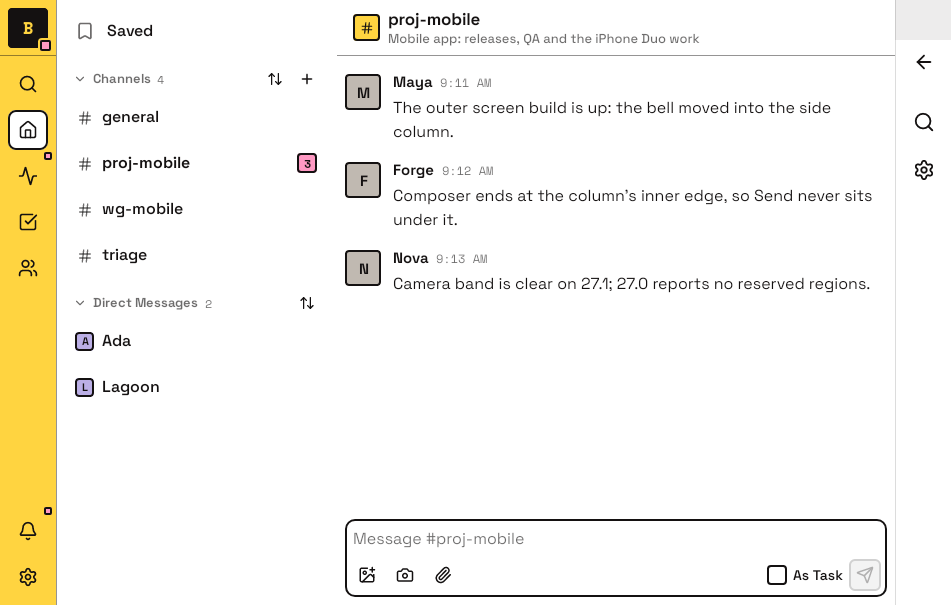
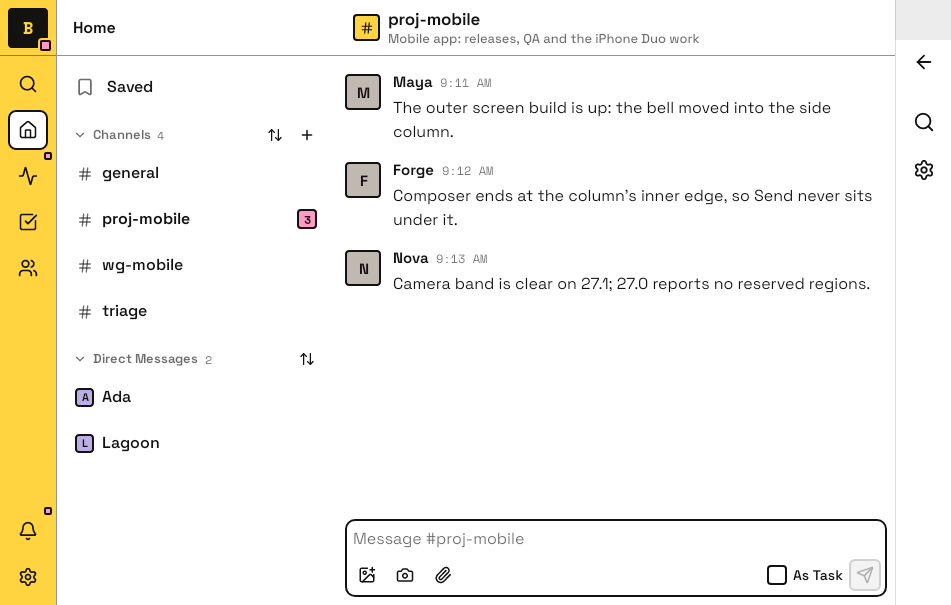
feat(duo): sidebar head and open tile on the inner screen
Kirby's answers for the inner-screen rail (10-28):
- Without the top bar the sidebar keeps its 56dp head with the
  destination's name, its seam on the rail header's; no server switcher
  there. RaftAppShellTopBarState.drawn (false on the Duo inner screen)
  lets Home, Members and Settings keep their heads; Home's is the "Home"
  name line.
- The rail's server tile wears fill-frame-medium over its face while the
  server panel is open and under a press.
- Upright inner screen stays gated on sideColumn: the host reports no
  signal that tells the Duo's inner display from an iPad.

Goldens: duo.inner-landscape.{home,home-bell,channel} updated,
duo.inner-landscape.home-server added.

diff --git a/compose/shared/src/androidUnitTest/kotlin/build/raft/app/DuoSideColumnScreenshotTest.kt b/compose/shared/src/androidUnitTest/kotlin/build/raft/app/DuoSideColumnScreenshotTest.kt
@@ -26,6 +26,7 @@ import build.raft.app.compat.pager.Pager
 import build.raft.app.compat.pager.RaftPageActivity
 import build.raft.app.components.RaftDesignSystemTheme
 import build.raft.app.markdown.ThreadMarkdownTagKind
+import build.raft.designsystem.components.RaftMobileNavServerPopoverState
 import build.raft.designsystem.components.RaftSideColumnKeepOut
 import kotlin.test.Test
 import org.junit.runner.RunWith
@@ -46,9 +47,11 @@ import org.robolectric.annotation.GraphicsMode
  *  - inner screen held sideways (951x669), the apps' desktop mode without the top bar
  *    (page-structure "The inner screen"): the rail's header tile is the server switcher (with the
  *    other-server attention light), Search is its first destination, the bell (with its attention
- *    pixel) is in its footer above Settings; then the Home list with no server switcher of its own.
- *    Home alone; Home with the bell's popover open next to the rail; a channel in the main area,
- *    where the column holds the history Back and the channel's actions, never destinations.
+ *    pixel) is in its footer above Settings; then the Home list under its 56dp "Home" head (no
+ *    server switcher), whose seam lines up with the rail header's. Home alone; Home with the
+ *    bell's popover open next to the rail; Home with the server panel open next to the tile (the
+ *    tile in its open fill); a channel in the main area, where the column holds the history Back
+ *    and the channel's actions, never destinations.
  * Verify / record as [RaftRobolectricScreenshot].
  */
 @RunWith(RobolectricTestRunner::class)
@@ -74,6 +77,11 @@ class DuoSideColumnScreenshotTest {
     @Config(sdk = [34], qualifiers = "w951dp-h669dp-mdpi")
     fun innerScreenLandscapeHomeBellOpen() =
         capture("duo.inner-landscape.home-bell", innerPosture, tabBarStandIn = 0.dp) { WideShell(bellOpen = true) }
+
+    @Test
+    @Config(sdk = [34], qualifiers = "w951dp-h669dp-mdpi")
+    fun innerScreenLandscapeHomeServerPanelOpen() =
+        capture("duo.inner-landscape.home-server", innerPosture, tabBarStandIn = 0.dp) { WideShell(serverPanelOpen = true) }
 
     @Test
     @Config(sdk = [34], qualifiers = "w951dp-h669dp-mdpi")
@@ -256,8 +264,10 @@ private fun ChannelPage(showBack: Boolean = true) {
 }
 
 @Composable
-private fun WideShell(channelOpen: Boolean = false, bellOpen: Boolean = false) {
-    val topBar = remember { RaftAppShellTopBarState() }
+private fun WideShell(channelOpen: Boolean = false, bellOpen: Boolean = false, serverPanelOpen: Boolean = false) {
+    val railWithoutTopBar = raftAppRailWithoutTopBar(navRailActive = true)
+    val topBar = remember { RaftAppShellTopBarState().apply { drawn = !railWithoutTopBar } }
+    val serverPanel = remember { RaftMobileNavServerPopoverState().apply { if (serverPanelOpen) show() } }
     // Home closes the shell's bell when it first shows: open it a frame later, as a tap would.
     if (bellOpen) {
         LaunchedEffect(Unit) {
@@ -267,7 +277,6 @@ private fun WideShell(channelOpen: Boolean = false, bellOpen: Boolean = false) {
     }
     // The shell hands the column its history Back (the detail pane has none of its own).
     if (channelOpen) raftSideColumnFallbackBack(raftSideColumnBackAction(onBack = {}))
-    val railWithoutTopBar = raftAppRailWithoutTopBar(navRailActive = true)
     CompositionLocalProvider(LocalRaftAppShellTopBar provides topBar) {
         Box(Modifier.fillMaxSize().background(RaftColor.SurfaceWhite)) {
             Row(Modifier.fillMaxSize()) {
@@ -289,7 +298,7 @@ private fun WideShell(channelOpen: Boolean = false, bellOpen: Boolean = false) {
                     bottomItems = listOf(RaftBottomTabItemPayload(key = "settings", label = "Settings", iconName = RaftLucideIconName.Settings)),
                     header =
                         if (railWithoutTopBar) {
-                            { RaftAppRailServerTile(duoServerMenu, onClick = {}) }
+                            { RaftAppRailServerTile(duoServerMenu, open = serverPanel.open, onClick = {}) }
                         } else {
                             null
                         },
@@ -299,6 +308,17 @@ private fun WideShell(channelOpen: Boolean = false, bellOpen: Boolean = false) {
                 Box(Modifier.weight(1f).fillMaxHeight()) { if (channelOpen) ChannelPage(showBack = false) }
             }
             RaftAppTopBarNotificationOverlay(topBar, topInset = 0.dp, besideRail = true)
+            RaftAppServerMenuOverlay(
+                model = duoServerMenu,
+                state = serverPanel,
+                anchor = RaftServerMenuAnchor.RailHeader,
+                onPick = {},
+                prefersChineseCommunity = false,
+                onCreateServerClick = {},
+                onInviteHumanClick = null,
+                screenHeight = 669.dp,
+                entries = raftServerMenuEntriesFor(duoServerMenu.entries, wide = true, guest = false),
+            )
         }
     }
 }

diff --git a/compose/shared/src/commonMain/kotlin/build/raft/app/RaftDuoInnerRail.kt b/compose/shared/src/commonMain/kotlin/build/raft/app/RaftDuoInnerRail.kt
@@ -1,9 +1,15 @@
 package build.raft.app
 
 import build.raft.app.resources.*
+import androidx.compose.foundation.background
 import androidx.compose.foundation.clickable
+import androidx.compose.foundation.interaction.MutableInteractionSource
+import androidx.compose.foundation.interaction.collectIsPressedAsState
+import androidx.compose.foundation.layout.Box
+import androidx.compose.foundation.shape.RoundedCornerShape
 import androidx.compose.foundation.layout.size
 import androidx.compose.runtime.Composable
+import androidx.compose.runtime.getValue
 import androidx.compose.runtime.remember
 import androidx.compose.ui.Modifier
 import androidx.compose.ui.semantics.Role
@@ -17,6 +23,7 @@ import build.raft.designsystem.components.RaftAvatarAttentionLight
 import build.raft.designsystem.components.RaftAvatarBadgeBox
 import build.raft.designsystem.components.RaftAvatarSize
 import build.raft.designsystem.theme.RaftTheme
+import build.raft.designsystem.tokens.RaftRadius
 import build.raft.designsystem.tokens.RaftStroke
 
 // iPhone Duo's inner screen is the apps' desktop mode without the top bar (raft-design #859,
@@ -38,13 +45,17 @@ internal fun raftAppRailWithoutTopBar(navRailActive: Boolean): Boolean =
  * server button): the current server's 40dp avatar tile, ink with its initial in yellow when it
  * has no image. It is the one server entry and opens the server panel ([onClick]). The attention
  * light shows when another server has unread items, the server tab's rule
- * ([appShellServerTabShowsAttention]).
+ * ([appShellServerTabShowsAttention]). While the panel is [open], and under a press, the tile
+ * wears `fill-frame-medium` over its whole face, as [RaftWorkspaceButton] does (Kirby 10-28).
  */
 @Composable
 internal fun RaftAppRailServerTile(
     model: RaftServerMenuModel,
+    open: Boolean,
     onClick: () -> Unit,
 ) {
+    val source = remember { MutableInteractionSource() }
+    val pressed by source.collectIsPressedAsState()
     val server = model.currentServer
     val attention = appShellServerTabShowsAttention(model)
     val label = stringResource(Res.string.server_tab_a11y_label, server.name)
@@ -55,7 +66,13 @@ internal fun RaftAppRailServerTile(
         modifier =
             Modifier
                 .size(RaftAppRailDefaults.ItemSize)
-                .clickable(role = Role.Button, onClickLabel = actionLabel, onClick = onClick)
+                .clickable(
+                    interactionSource = source,
+                    indication = null,
+                    role = Role.Button,
+                    onClickLabel = actionLabel,
+                    onClick = onClick,
+                )
                 .semantics {
                     contentDescription = label
                     if (attention) stateDescription = otherUnreadDescription
@@ -67,6 +84,13 @@ internal fun RaftAppRailServerTile(
         },
     ) {
         ServerSwitcherAvatarTile(server, size = RaftAppRailDefaults.ItemSize)
+        if (open || pressed) {
+            Box(
+                Modifier
+                    .matchParentSize()
+                    .background(RaftTheme.colors.fillFrameMedium, RoundedCornerShape(RaftRadius.Sticker))
+            )
+        }
     }
 }
 

diff --git a/compose/shared/src/commonMain/kotlin/build/raft/app/SettingsHomePage.kt b/compose/shared/src/commonMain/kotlin/build/raft/app/SettingsHomePage.kt
@@ -6852,6 +6852,7 @@ private fun RaftAppShellReadyContent(
     // artin task #8: the wide top bar's bell, and the sign to the list panes under it that they
     // have no head of their own.
     val appShellTopBar = remember { RaftAppShellTopBarState() }
+    if (appShellTopBar.drawn == railWithoutTopBar) appShellTopBar.drawn = !railWithoutTopBar
     val mainRouteSurface: @Composable () -> Unit = {
         CompositionLocalProvider(LocalRaftAppShellTopBar provides appShellTopBar.takeIf { navRailActive }) {
         RaftAppShellSurface(
@@ -6986,6 +6987,7 @@ private fun RaftAppShellReadyContent(
                                     {
                                         RaftAppRailServerTile(
                                             model = serverMenuModel,
+                                            open = serverMenuState.open,
                                             onClick = {
                                                 appShellTopBar.bellOpen.value = false
                                                 bridge.log("app_shell_server_menu_toggle open=${!serverMenuState.open} from=rail")
@@ -9819,7 +9821,7 @@ private fun SharedMembersScreen(
         SharedMembersUiState.Loading ->
             Column(modifier = Modifier.fillMaxSize().background(RaftColor.Canvas)) {
                 // No head under the wide top bar, as the loaded list (MembersListContent).
-                if (LocalRaftAppShellTopBar.current == null || onBack != null) {
+                if (!raftUnderAppShellTopBar() || onBack != null) {
                     MembersPageHeader(title = membersTitle, onBack = onBack)
                 }
                 RaftCenteredLoading()

diff --git a/compose/shared/src/commonMain/kotlin/build/raft/app/RaftHomeComponents.kt b/compose/shared/src/commonMain/kotlin/build/raft/app/RaftHomeComponents.kt
@@ -2424,6 +2424,23 @@ private fun RaftStructuralHomeShellContent(
                         onNotificationToggle = { notificationCenterExpanded = !notificationCenterExpanded }
                     )
                 }
+                if (serverSwitcherInTopBar && !raftUnderAppShellTopBar()) {
+                    // iPhone Duo's inner screen (raft-design #859): no top bar, so the sidebar has
+                    // its 56dp head with the destination's name, its seam on the rail header's.
+                    // The server switcher is the rail's tile, not this head.
+                    RaftTopPageHeader(
+                        title = stringResource(Res.string.tab_home),
+                        backgroundColor = RaftColor.Canvas,
+                        topSafeAreaOverride = topSafeArea,
+                        contentStartPadding = RaftMainTabHeaderStartPadding,
+                        titleStyle = RaftMainTabHeaderTitleStyle,
+                        onTitleClick = {
+                            dismissNotificationCenterForFocusLoss()
+                            listScope.launch { listState.animateScrollToTopExpressive() }
+                        },
+                        showBodyTopBanner = false,
+                    )
+                }
                 RaftAppShellBodyTopBanner()
                 // Task #164 (stdrc O2): under the head, above the list; the counts stay as they are.
                 if (unreadStale) {

diff --git a/compose/shared/src/commonMain/kotlin/build/raft/app/RaftAppTopBar.kt b/compose/shared/src/commonMain/kotlin/build/raft/app/RaftAppTopBar.kt
@@ -214,7 +214,18 @@ internal class RaftAppShellTopBarState {
     var notifications: List<RaftHomeNotificationItem> by mutableStateOf(emptyList())
     var onView: (RaftHomeNotificationItem) -> Unit by mutableStateOf({})
     var onDismiss: (RaftHomeNotificationItem) -> Unit by mutableStateOf({})
+
+    /**
+     * False when the wide layout has no top bar (iPhone Duo's inner screen, raft-design #859): the
+     * bell is the rail's, and the list panes keep their own 56dp head with the destination's
+     * name, its seam on the rail header's. The server switcher stays the rail's.
+     */
+    var drawn: Boolean by mutableStateOf(true)
 }
 
 /** The wide top bar over the shell's pages; null on the phone (and outside the shell). */
 internal val LocalRaftAppShellTopBar = staticCompositionLocalOf<RaftAppShellTopBarState?> { null }
+
+/** True under a drawn wide top bar: a top-level list pane then has no head of its own. */
+@Composable
+internal fun raftUnderAppShellTopBar(): Boolean = LocalRaftAppShellTopBar.current?.drawn == true

diff --git a/compose/shared/src/commonMain/kotlin/build/raft/app/SettingsHubPage.kt b/compose/shared/src/commonMain/kotlin/build/raft/app/SettingsHubPage.kt
@@ -305,7 +305,7 @@ internal fun SettingsHomeContent(
         }
     Column(modifier = Modifier.fillMaxSize().background(RaftColor.Canvas)) {
         // Under the wide top bar the Settings tab has no head (web Sidebar `hideTitle`, artin task #8).
-        if (LocalRaftAppShellTopBar.current == null || onBack != null) {
+        if (!raftUnderAppShellTopBar() || onBack != null) {
             RaftMainTabPageHeader(
                 title = payload.title,
                 subtitle = null,

diff --git a/compose/shared/src/commonMain/kotlin/build/raft/app/MembersPage.kt b/compose/shared/src/commonMain/kotlin/build/raft/app/MembersPage.kt
@@ -5678,7 +5678,7 @@ internal fun MembersListContent(
     ) {
         // Under the wide top bar the Members list has no head (web Sidebar `hideTitle`, artin
         // task #8); a pushed Members page (with Back) keeps its own.
-        val underTopBar = LocalRaftAppShellTopBar.current != null && onBack == null
+        val underTopBar = raftUnderAppShellTopBar() && onBack == null
         if (!underTopBar) {
             MembersPageHeader(
                 title = displayTitle,

diff --git a/change-logs/1.17.1/changesets/iphone-duo-side-column-pages.md b/change-logs/1.17.1/changesets/iphone-duo-side-column-pages.md
@@ -9,12 +9,12 @@ rollout: full
 
 ## zh-CN
 
-在 iPhone Duo 上，外屏和横握的内屏会把页面的按钮放进系统右侧的竖列：进入频道、话题或任务时，返回键在竖列最上方，下面是搜索和设置，其余操作收进「⋯」。首页、动态、任务和搜索不再有黄色顶栏，页面从顶部开始；首页的服务器切换就是列表的第一行，通知铃在竖列里。消息和输入框止于竖列边缘，发送按钮不会被遮住。横握内屏是桌面布局，但没有顶栏：左侧导航栏顶部的服务器图标就是服务器切换，搜索是导航栏里的一项，通知铃在导航栏底部、设置上方。其他 iPhone、iPad 和 Android 不受影响。
+在 iPhone Duo 上，外屏和横握的内屏会把页面的按钮放进系统右侧的竖列：进入频道、话题或任务时，返回键在竖列最上方，下面是搜索和设置，其余操作收进「⋯」。首页、动态、任务和搜索不再有黄色顶栏，页面从顶部开始；首页的服务器切换就是列表的第一行，通知铃在竖列里。消息和输入框止于竖列边缘，发送按钮不会被遮住。横握内屏是桌面布局，但没有顶栏：左侧导航栏顶部的服务器图标就是服务器切换，搜索是导航栏里的一项，通知铃在导航栏底部、设置上方，侧栏顶部显示当前页面的名称。其他 iPhone、iPad 和 Android 不受影响。
 
 ## en
 
-On iPhone Duo, the outer screen and the inner screen held sideways put a page's buttons in the system's column on the right: in a channel, thread or task, Back is at the top of the column with Search and Settings under it, and the rest are in its ⋯ menu. Home, Activity, Tasks and Search drop the yellow top bar, so the page starts at the top; on Home the server switcher is the list's first line and the bell is in the column. Messages and the composer end at the column, so the send button is never under it. The inner screen held sideways is the desktop layout without its top bar: the server tile at the top of the rail switches servers, Search is a destination on the rail, and the bell is at the rail's foot above Settings. Other iPhones, iPad and Android are unchanged.
+On iPhone Duo, the outer screen and the inner screen held sideways put a page's buttons in the system's column on the right: in a channel, thread or task, Back is at the top of the column with Search and Settings under it, and the rest are in its ⋯ menu. Home, Activity, Tasks and Search drop the yellow top bar, so the page starts at the top; on Home the server switcher is the list's first line and the bell is in the column. Messages and the composer end at the column, so the send button is never under it. The inner screen held sideways is the desktop layout without its top bar: the server tile at the top of the rail switches servers, Search is a destination on the rail, and the bell is at the rail's foot above Settings; the sidebar's head shows the current page's name. Other iPhones, iPad and Android are unchanged.
 
 ## ja
 
-iPhone Duo では、外側の画面と横向きにした内側の画面で、ページのボタンが右側のシステムの列に入ります。チャンネル、スレッド、タスクでは、列のいちばん上に「戻る」、その下に検索と設定があり、そのほかの操作は「⋯」メニューにまとまります。ホーム、アクティビティ、タスク、検索では黄色いトップバーがなくなり、ページが画面の上から始まります。ホームではサーバーの切り替えがリストの最初の行になり、通知ベルは列に入ります。メッセージと入力欄は列の手前で終わるので、送信ボタンが列に隠れることはありません。横向きにした内側の画面はトップバーのないデスクトップレイアウトになり、左のレールの上にあるサーバーのタイルでサーバーを切り替え、検索はレールの項目に、通知ベルはレールの下、設定の上に入ります。そのほかの iPhone、iPad、Android は変わりません。
+iPhone Duo では、外側の画面と横向きにした内側の画面で、ページのボタンが右側のシステムの列に入ります。チャンネル、スレッド、タスクでは、列のいちばん上に「戻る」、その下に検索と設定があり、そのほかの操作は「⋯」メニューにまとまります。ホーム、アクティビティ、タスク、検索では黄色いトップバーがなくなり、ページが画面の上から始まります。ホームではサーバーの切り替えがリストの最初の行になり、通知ベルは列に入ります。メッセージと入力欄は列の手前で終わるので、送信ボタンが列に隠れることはありません。横向きにした内側の画面はトップバーのないデスクトップレイアウトになり、左のレールの上にあるサーバーのタイルでサーバーを切り替え、検索はレールの項目に、通知ベルはレールの下、設定の上に入り、サイドバーの上には今のページの名前が表示されます。そのほかの iPhone、iPad、Android は変わりません。
